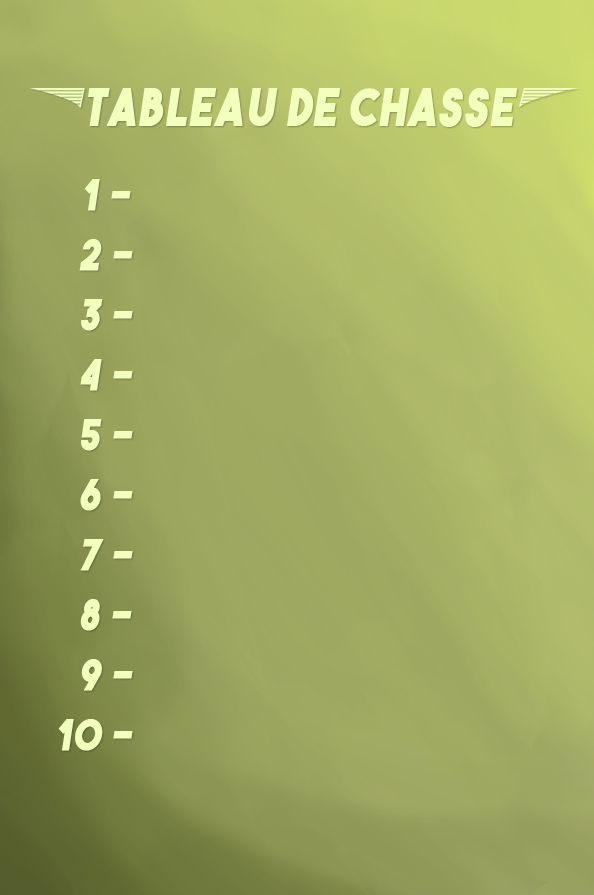
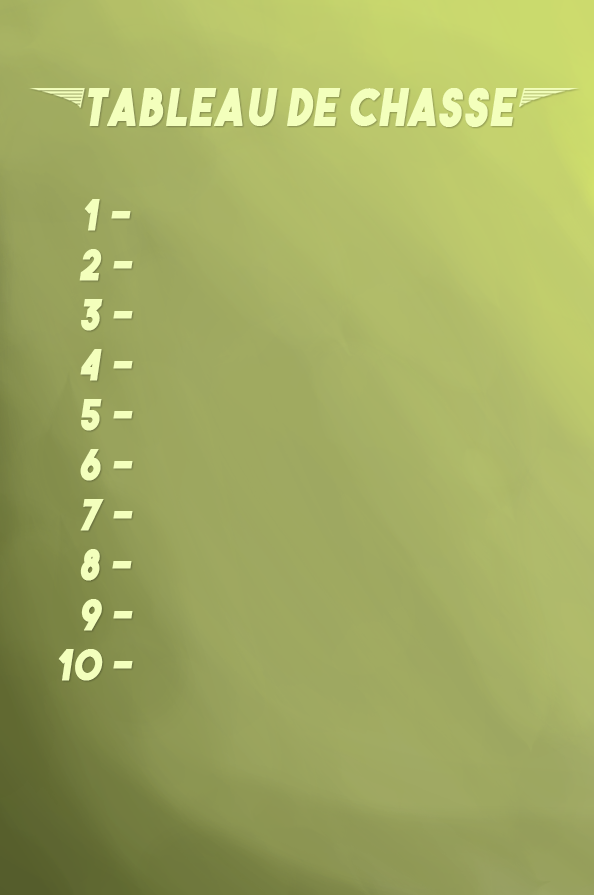
affiche score

Changed region(s): [[0.0909, 0.3922, 0.2424, 0.8447], [0.1212, 0.181, 0.2424, 0.3318]]

diff --git a/src/com/cda/model/PanelScore.java b/src/com/cda/model/PanelScore.java
@@ -1,21 +1,119 @@
 package com.cda.model;
 
+import com.cda.program.Program;
+
 import javax.swing.*;
 import java.awt.*;
+import java.awt.event.MouseAdapter;
+import java.awt.event.MouseEvent;
+import java.util.Iterator;
+import java.util.Map;
+import java.util.Set;
 
 public class PanelScore extends JPanel {
     private final ImageIcon icoBandeFond;
     private final Image imgBandeFond;
+    private ImageIcon icoBoutonQuit = new ImageIcon(getClass().getResource(Constantes.BOUTON_QUITTER));
+    private Image imgBoutonQuit = icoBoutonQuit.getImage();
+    private ImageIcon icoBoutonRejouer = new ImageIcon(getClass().getResource(Constantes.BOUTON_REJOUER));
+    private Image imgBoutonRejouer = icoBoutonRejouer.getImage();
+    private int decallageScore = 0;
+    private Color color = new Color(243, 255, 188);
 
     public PanelScore(final MaFenetre cdaFenetre) {
         this.setLayout(null);
+        Font font = new Font("impact", Font.BOLD, 30);
         setSize(cdaFenetre.getWidth(), cdaFenetre.getHeight());
         this.icoBandeFond = new ImageIcon(getClass().getResource(Constantes.IMAGE_FOND_SCORE));
         this.imgBandeFond = this.icoBandeFond.getImage();
 
+        JPanel boutonQuitter = new JPanel() {
+            @Override
+            protected void paintComponent(Graphics g) {
+                super.paintComponent(g);
+                g.drawImage(imgBoutonQuit, 0, 0, 200, 50, null);
+            }
+        };
+        JPanel boutonRejouer = new JPanel() {
+            @Override
+            protected void paintComponent(Graphics g) {
+                super.paintComponent(g);
+                g.drawImage(imgBoutonRejouer, 0, 0, 200, 50, null);
+            }
+        };
+        boutonQuitter.setBounds(50, 750, 200, 50);
+        boutonRejouer.setBounds(350, 750, 200, 50);
+        boutonQuitter.setOpaque(false);
+        boutonRejouer.setOpaque(false);
+        this.add(boutonQuitter);
+        this.add(boutonRejouer);
+        boutonQuitter.addMouseListener(new MouseAdapter() {
+            @Override
+            public void mouseClicked(MouseEvent e) {
+                super.mouseClicked(e);
+                System.exit(0);
+            }
 
+            @Override
+            public void mouseEntered(MouseEvent e) {
+                super.mouseEntered(e);
+                icoBoutonQuit = new ImageIcon(getClass().getResource(Constantes.BOUTON_QUITTER_HOVER));
+                imgBoutonQuit = icoBoutonQuit.getImage();
+                boutonQuitter.repaint();
+            }
 
+            @Override
+            public void mouseExited(MouseEvent e) {
+                super.mouseExited(e);
+                icoBoutonQuit = new ImageIcon(getClass().getResource(Constantes.BOUTON_QUITTER));
+                imgBoutonQuit = icoBoutonQuit.getImage();
+                boutonQuitter.repaint();
+
+            }
+        });
+        boutonRejouer.addMouseListener(new MouseAdapter() {
+            @Override
+            public void mouseClicked(MouseEvent e) {
+                super.mouseClicked(e);
+                Program.vMaFenetre.rejouer();
+                GestionCollision.scoreReinit();
+                MaFenetre.vBackgroundWindow.repaint();
+            }
+
+            @Override
+            public void mouseEntered(MouseEvent e) {
+                super.mouseEntered(e);
+                icoBoutonRejouer = new ImageIcon(getClass().getResource(Constantes.BOUTON_REJOUER_HOVER));
+                imgBoutonRejouer = icoBoutonRejouer.getImage();
+                boutonRejouer.repaint();
+            }
+
+            @Override
+            public void mouseExited(MouseEvent e) {
+                super.mouseExited(e);
+                icoBoutonRejouer = new ImageIcon(getClass().getResource(Constantes.BOUTON_REJOUER));
+                imgBoutonRejouer = icoBoutonRejouer.getImage();
+                boutonRejouer.repaint();
+
+            }
+        });
+        FichierSauvegarde.recupererScore();
+        Set set2 = FichierSauvegarde.tableauScore.entrySet();
+        Iterator iterator2 = set2.iterator();
+        for (int i = 0; i < 10 || i>set2.size(); i++) {
+                Map.Entry me2 = (Map.Entry) iterator2.next();
+                String result = me2.getKey() + " " + me2.getValue();
+            JTextArea area = new JTextArea(result);
+
+            area.setBounds(150, 195 + decallageScore, 450, 50);
+            area.setOpaque(false);
+            area.setFont(font);
+            area.setForeground(color);
+            this.add(area);
+            decallageScore += 50;
+        }
     }
+
     @Override
     protected void paintComponent(Graphics g) {
         super.paintComponent(g);

diff --git a/src/com/cda/model/FichierSauvegarde.java b/src/com/cda/model/FichierSauvegarde.java
@@ -1,23 +1,21 @@
 package com.cda.model;
 
-import java.io.File;
-import java.io.FileWriter;
-import java.io.IOException;
+import java.io.*;
 import java.time.LocalDateTime;
 import java.time.format.DateTimeFormatter;
-import java.util.Properties;
+import java.util.*;
 
 public class FichierSauvegarde {
 
+	private static Properties vPropriete = System.getProperties();
+	private static String vUserDir = vPropriete.getProperty("user.dir");
+	private static DateTimeFormatter vDateFormat = DateTimeFormatter.ofPattern("yyyy/MM/dd");
+	private static LocalDateTime vDate = LocalDateTime.now();
+	private static String vDateFormater = vDate.format(vDateFormat);
+	private static File vFichier = new File("sauvegarde-jeu.txt");
+	protected static TreeMap<Integer, String> tableauScore = new TreeMap<>(Collections.reverseOrder());
+
 	public static void fichier() {
-		Properties vPropriete = System.getProperties();
-		String vUserDir = vPropriete.getProperty("user.dir");
-		DateTimeFormatter vDateFormat = DateTimeFormatter.ofPattern("yyyy/MM/dd HH:mm:ss");
-		LocalDateTime vDate = LocalDateTime.now();
-		String vDateFormater = vDate.format(vDateFormat);
-
-
-		File vFichier = new File("sauvegarde-jeu.txt");
 
 		if (vFichier.exists()) {
 		} else {
@@ -28,11 +26,50 @@ public class FichierSauvegarde {
 			}
 		}
 		try (FileWriter vFileWriter = new FileWriter(vFichier, true)) {
-			vFileWriter.append(vDateFormater).append(" : ").append(Accueil.nomJoueur2).append(" ----> ")
-					.append(String.valueOf(GestionCollision.compteurGlobal)).append("\n");
+			vFileWriter.append(Accueil.nomJoueur2).append(" ").append(String.valueOf(GestionCollision.compteurGlobal)).append(" ")
+					.append(vDateFormater).append("\n");
 			vFileWriter.flush();
 		} catch (IOException e) {
 			e.printStackTrace();
 		}
 	}
+
+	public static void recupererScore() {
+
+		BufferedReader lecteurAvecBuffer = null;
+		String ligne = "";
+		try {
+			lecteurAvecBuffer = new BufferedReader(new FileReader(vFichier));
+		} catch (FileNotFoundException exc) {
+		}
+		while (true) {
+
+			try {
+				if ((ligne = lecteurAvecBuffer.readLine()) == null) break;
+			} catch (IOException e) {
+				e.printStackTrace();
+			}
+			String[] ligneSplit = ligne.split(" ");
+			int score = Integer.parseInt(ligneSplit[1]);
+			String nom = ligneSplit[0] + " " + ligneSplit[2];
+			tableauScore.put(score, nom);
+		}
+		try {
+			lecteurAvecBuffer.close();
+		} catch (IOException e) {
+			e.printStackTrace();
+		}
+	}
+
+	public static void trier() {
+		Set set2 = tableauScore.entrySet();
+		Iterator iterator2 = set2.iterator();
+		System.out.println("Après le tri: ");
+		for (int i = 0; i < set2.size() && i<10; i++) {
+			Map.Entry me2 = (Map.Entry) iterator2.next();
+			System.out.print(me2.getKey() + " ");
+			System.out.println(me2.getValue());
+		}
+	}
 }
+

diff --git a/src/com/cda/model/MaFenetre.java b/src/com/cda/model/MaFenetre.java
@@ -26,7 +26,7 @@ public class MaFenetre extends JFrame {
 	public MaFenetre() {
 		vAccueil = new Accueil(this);
 		vPanelFin = new PanelFin(this);
-		vPanelScore = new PanelScore(this);
+
 		setSize(Constantes.FENETRE_WIDTH, Constantes.FENETRE_HEIGHT);
 		setDefaultCloseOperation(EXIT_ON_CLOSE);
 		setTitle("Monkey Squad");
@@ -37,11 +37,10 @@ public class MaFenetre extends JFrame {
 		setIconImage(new ImageIcon(this.getClass().getResource("/images/test-icon.png")).getImage());
 		this.setLayout(cardLayout);
 		contentPane = this.getContentPane();
-
 		contentPane.add(vAccueil, ACCUEIL_PANEL);
 		contentPane.add(vPanelFin, FIN_PANEL);
 		contentPane.add(vBackgroundWindow, PARTIE_PANEL);
-		contentPane.add(vPanelScore, SCORE_PANEL);
+
 		monSon = new Son("/audio/music.wav");
 		monSonIntro = new Son("/audio/intro.wav");
 		monSonTir = new Son("/audio/tir.wav");
@@ -65,6 +64,8 @@ public class MaFenetre extends JFrame {
 		vBackgroundWindow.requestFocus(true);
 	}
 	public void afficheScore(){
+		vPanelScore = new PanelScore(this);
+		contentPane.add(vPanelScore, SCORE_PANEL);
 		cardLayout.show(contentPane, SCORE_PANEL);
 	}
 }

diff --git a/src/com/cda/model/GestionCollision.java b/src/com/cda/model/GestionCollision.java
@@ -161,6 +161,14 @@ public abstract class GestionCollision extends JPanel {
 	}
 
 	public static void scoreReinit() {
+		Chrono.pause = false;
+		Bouclier.setNbreBouclier(4);
+		MaFenetre.monSonIntro.stopMusique();
+		MaFenetre.monSon.startMusique();
+		MaFenetre.vBackgroundWindow.vaisseau.setxPos(Constantes.POSITIONX_DEPART_AVION);
+		MaFenetre.vBackgroundWindow.vaisseau.setyPos(Constantes.POSITIONY_DEPART_AVION);
+		GestionCollision.setCompteurGlobal(0);
+		GestionCollision.setVie(3);
 		ImageIcon icoMissile = new ImageIcon("/images/score-0.png");
 		Image imgMissile = icoMissile.getImage();
 		MaFenetre.vBackgroundWindow.score.setImgMissile(imgMissile);

diff --git a/src/com/cda/model/PanelFin.java b/src/com/cda/model/PanelFin.java
@@ -84,15 +84,7 @@ public class PanelFin extends JPanel {
 			public void mouseClicked(MouseEvent e) {
 				super.mouseClicked(e);
 				Program.vMaFenetre.rejouer();
-				Chrono.pause = false;
-				MaFenetre.monSonIntro.stopMusique();
-				MaFenetre.monSon.startMusique();
-				MaFenetre.vBackgroundWindow.vaisseau.setxPos(Constantes.POSITIONX_DEPART_AVION);
-				MaFenetre.vBackgroundWindow.vaisseau.setyPos(Constantes.POSITIONY_DEPART_AVION);
-				GestionCollision.setCompteurGlobal(0);
-				GestionCollision.setVie(3);
 				GestionCollision.scoreReinit();
-				Bouclier.setNbreBouclier(4);
 				MaFenetre.vBackgroundWindow.repaint();
 			}
 

diff --git a/src/com/cda/model/Acceuil.java b/src/com/cda/model/Acceuil.java
@@ -46,8 +46,8 @@ class Accueil extends JPanel {
 			@Override
 			public void mouseClicked(MouseEvent e) {
 				super.mouseClicked(e);
-				nomJoueur2 = nomJoueur.getText().trim();
-				if (nomJoueur2.length() != 0) {
+				nomJoueur2 = nomJoueur.getText().trim().replace(" ", "-");
+				if (nomJoueur2.length() >3 && nomJoueur2.length()<6) {
 					Program.vMaFenetre.lancerPartiePanel();
 					MaFenetre.monSonIntro.stopMusique();
 					MaFenetre.monSon.startMusique();

diff --git a/src/com/cda/program/Program.java b/src/com/cda/program/Program.java
@@ -1,11 +1,13 @@
 package com.cda.program;
 
+import com.cda.model.FichierSauvegarde;
 import com.cda.model.MaFenetre;
 
 public class Program {
 	public static MaFenetre vMaFenetre;
 
 	public static void main(String[] args) {
+		//FichierSauvegarde.recupererScore();
 		vMaFenetre = new MaFenetre();
 	}
 }
